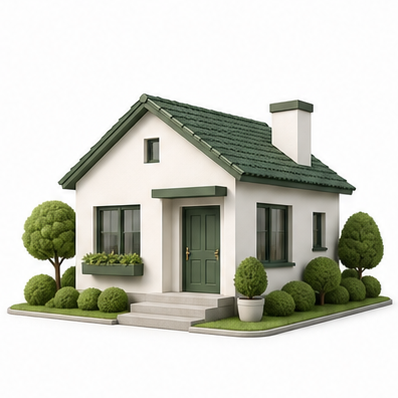
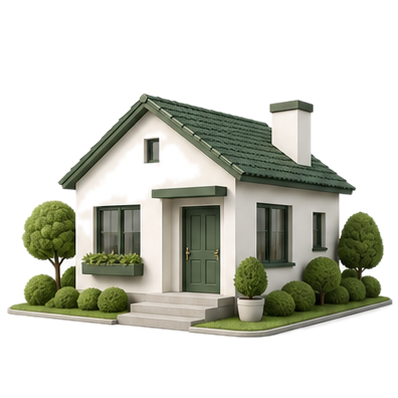
Blend category artwork into cards

diff --git a/components/CategoryGrid.tsx b/components/CategoryGrid.tsx
@@ -228,16 +228,16 @@ function CategoryCard({
         active ? "border-leaf ring-2 ring-leaf/18" : "border-ink/8"
       }`}
     >
-      <span className="pointer-events-none absolute inset-0 bg-[radial-gradient(circle_at_83%_58%,rgba(238,246,240,0.88)_0%,rgba(248,251,248,0.58)_38%,rgba(255,255,255,0)_68%)]" />
-      <span className="pointer-events-none absolute -right-10 -bottom-12 h-48 w-48 rounded-full bg-leaf/7 blur-2xl transition duration-300 group-hover:bg-leaf/11" />
+      <span className="pointer-events-none absolute inset-0 bg-[radial-gradient(circle_at_80%_56%,rgba(238,246,240,0.8)_0%,rgba(250,252,250,0.48)_42%,rgba(255,255,255,0)_70%)]" />
+      <span className="pointer-events-none absolute -right-8 -bottom-10 h-44 w-44 rounded-full bg-leaf/8 blur-2xl transition duration-300 group-hover:bg-leaf/12" />
       <span className="pointer-events-none absolute right-3 top-3 grid h-8 w-8 place-items-center rounded-full bg-mist text-leaf opacity-0 transition group-hover:opacity-100">
         <ArrowUpRight size={16} />
       </span>
-      <span className="relative z-10 flex min-h-[96px] max-w-[52%] items-center text-[22px] font-semibold leading-[1.16] text-ink sm:max-w-[50%] sm:text-[24px]">
+      <span className="relative z-10 flex min-h-[96px] max-w-[50%] items-center text-[21px] font-semibold leading-[1.14] tracking-[-0.01em] text-ink sm:text-[23px]">
         <span className="block text-balance">{label}</span>
       </span>
-      <span className="pointer-events-none absolute inset-y-2 right-2 flex w-[55%] items-center justify-end overflow-hidden rounded-r-[22px] sm:inset-y-3 sm:right-3 sm:w-[54%]">
-        <span className="absolute bottom-2 right-0 h-[78%] w-[88%] rounded-[30px] bg-[radial-gradient(ellipse_at_center,rgba(241,247,242,0.92)_0%,rgba(255,255,255,0.72)_46%,rgba(255,255,255,0)_74%)]" />
+      <span className="pointer-events-none absolute inset-y-3 right-4 flex w-[50%] items-center justify-end sm:inset-y-4 sm:right-5">
+        <span className="absolute bottom-0 right-0 h-[76%] w-[86%] rounded-full bg-mist/70 blur-xl transition duration-300 group-hover:bg-mist" />
         <Image
           src={categoryImagePaths[index] ?? categoryImagePaths[0]}
           alt=""
@@ -245,13 +245,7 @@ function CategoryCard({
           height={420}
           sizes="(max-width: 640px) 48vw, (max-width: 1024px) 26vw, 18vw"
           aria-hidden="true"
-          className="relative z-10 h-[96%] w-full object-contain object-right-bottom mix-blend-multiply drop-shadow-[0_18px_24px_rgba(24,32,29,0.10)] contrast-[1.02] transition duration-300 group-hover:scale-[1.045]"
-          style={{
-            WebkitMaskImage:
-              "radial-gradient(ellipse at 68% 55%, #000 0%, #000 54%, rgba(0,0,0,0.86) 64%, transparent 86%)",
-            maskImage:
-              "radial-gradient(ellipse at 68% 55%, #000 0%, #000 54%, rgba(0,0,0,0.86) 64%, transparent 86%)"
-          }}
+          className="relative z-10 h-[96%] w-full object-contain object-right-bottom drop-shadow-[0_18px_24px_rgba(24,32,29,0.12)] transition duration-300 group-hover:scale-[1.045]"
         />
       </span>
     </button>
